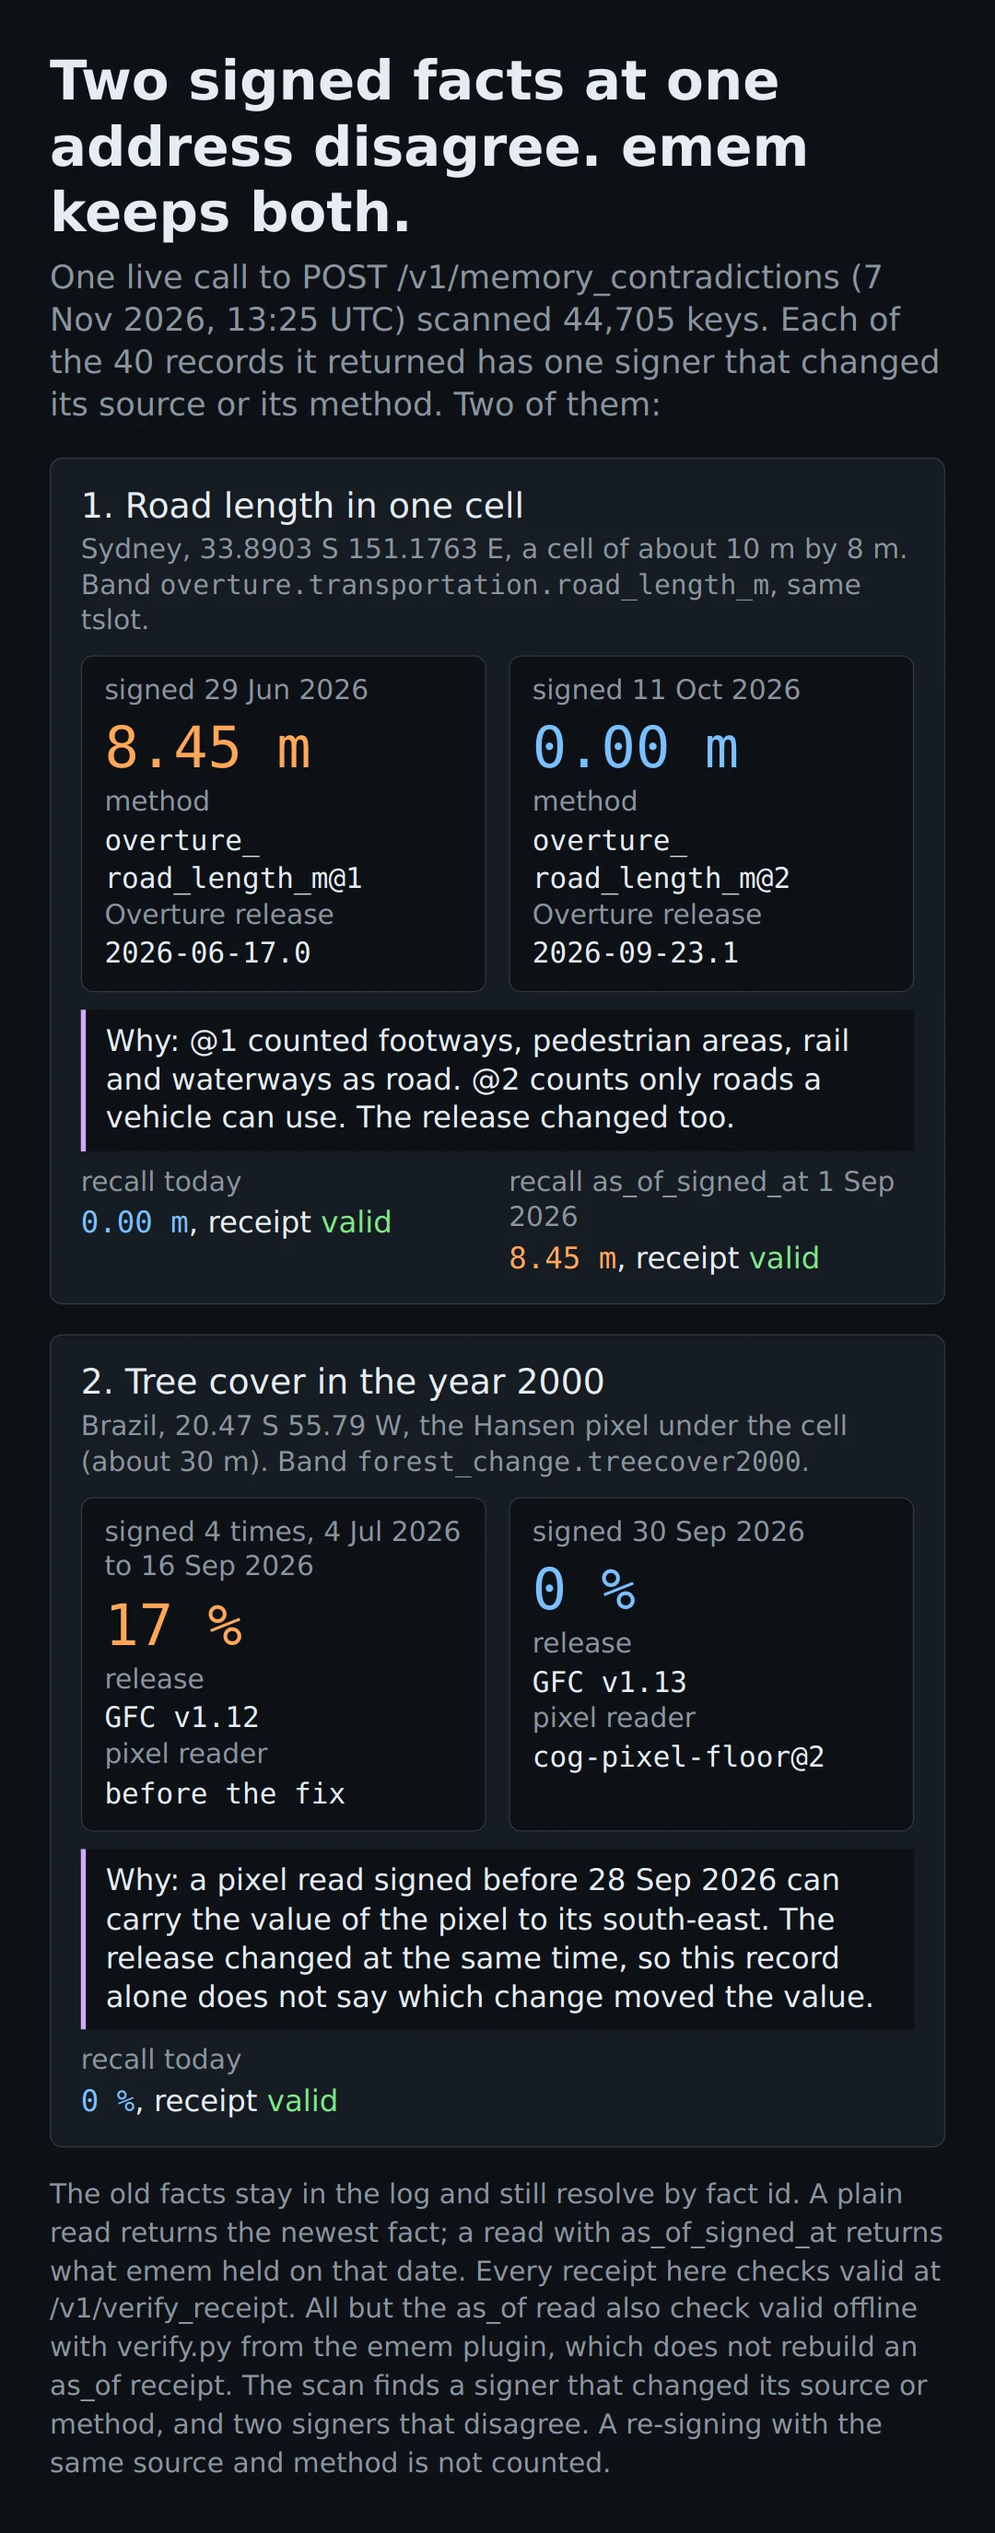
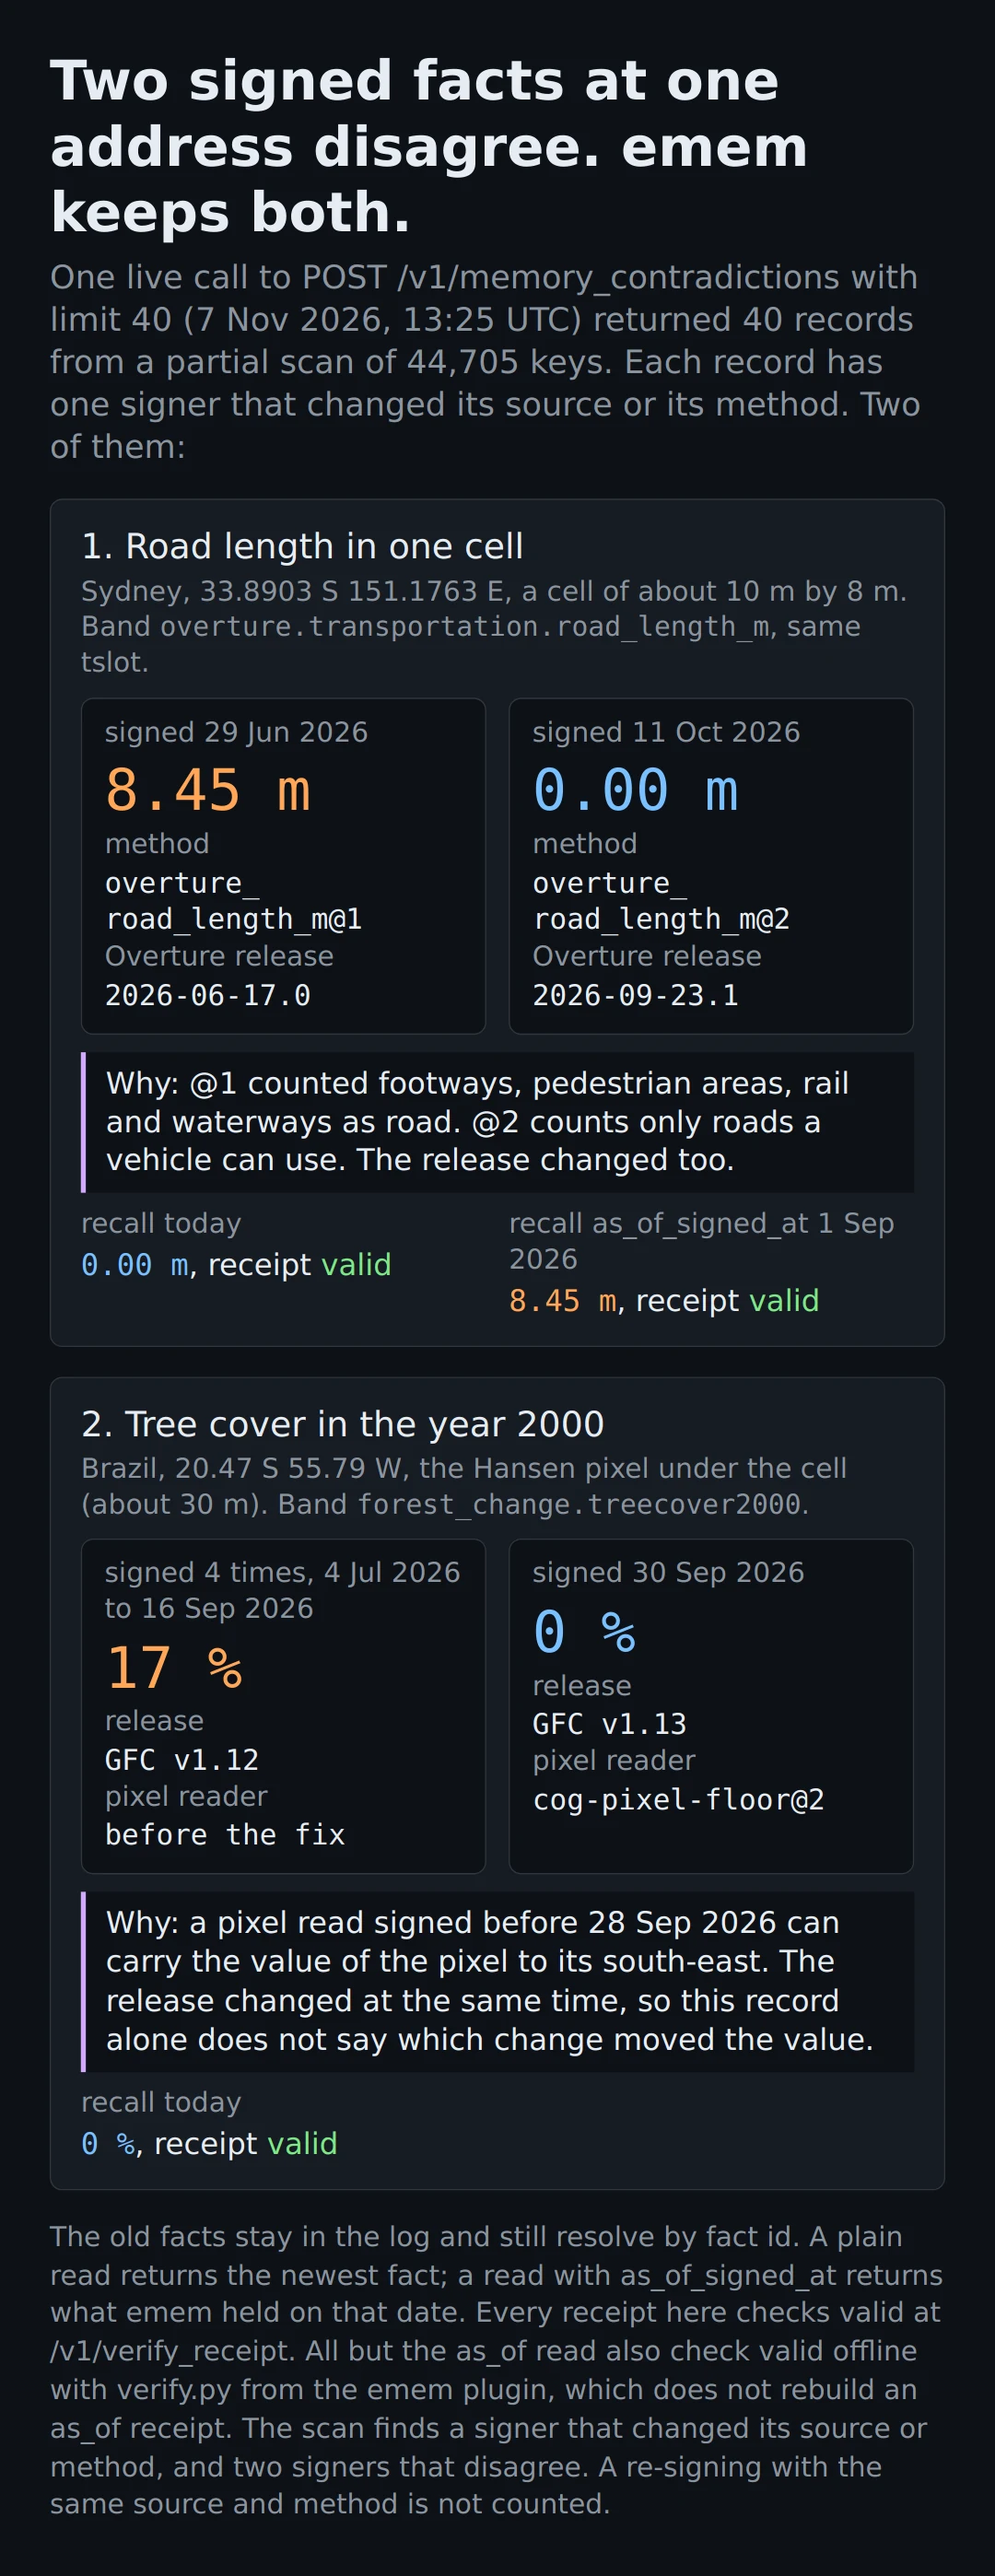
Say the contradictions scan was partial and name the fields box
Reviewer notes on PR #34. The memory_contradictions call sent limit
40, and its agent_hint says the hydration budget ran out (PARTIAL), so
intro.md, its alt text and the still now say "40 records from a
partial scan of 44,705 keys". The generator asserts PARTIAL.

agents.md said field_boundaries gave 139 outlines "in the box above",
but they came from the larger box in fetch_fields.py; it now names
that box. The trajectory row no longer waits on PR #30, which does not
change robots.md.

diff --git a/docs/media/stills/src/contradictions.py b/docs/media/stills/src/contradictions.py
@@ -33,6 +33,7 @@ def receipt_ok(r):
 scan = load("scan")
 assert receipt_ok(scan["receipt"]) and load("scan_verify")["valid"]
 assert scan["scopes"] == ["same_attester_provider_substitution"]
+assert "PARTIAL" in scan["agent_hint"] and scan["returned"] == 40
 
 k = {}
 for name in ("road", "tree"):
@@ -106,9 +107,9 @@ h1{{font-size:44px;line-height:1.2;margin:0 0 10px}}
 .foot{{color:#8b949e;font-size:22px;margin-top:24px;line-height:1.4}}
 </style><div class="wrap">
 <h1>Two signed facts at one address disagree. emem keeps both.</h1>
-<div class="q">One live call to POST /v1/memory_contradictions ({day(served)}, {served[11:16]} UTC)
-scanned {scan['corpus_scanned']:,} keys. Each of the {scan['returned']} records it returned has one signer
-that changed its source or its method. Two of them:</div>
+<div class="q">One live call to POST /v1/memory_contradictions with limit 40 ({day(served)}, {served[11:16]} UTC)
+returned {scan['returned']} records from a partial scan of {scan['corpus_scanned']:,} keys. Each record has one
+signer that changed its source or its method. Two of them:</div>
 
 <div class="panel">
 <div class="ph">1. Road length in one cell</div>

diff --git a/docs/intro.md b/docs/intro.md
@@ -71,12 +71,12 @@ node in 2027 and replay the same query.
 ## When two signed facts disagree
 
 emem does not delete an old fact when a newer fact replaces it. `memory_contradictions` finds addresses where the
-signed values differ. On 7 November 2026 it scanned 44,705 keys. All 40 records that it returned had one signer
-that changed its source or its method. At one Sydney cell, road length was 8.45 m under
+signed values differ. On 7 November 2026 a call with limit 40 returned 40 records from a partial scan of 44,705
+keys. Each record had one signer that changed its source or its method. At one Sydney cell, road length was 8.45 m under
 `overture_road_length_m@1` and 0.00 m under `@2`. Version 1 counted footways, rail and waterways as road. A plain
 read returned 0.00 m. A read with `as_of_signed_at` set to `2026-09-01T00:00:00Z` returned 8.45 m.
 
-![Two cases from one live POST /v1/memory_contradictions call on 7 November 2026, 13:25 UTC, which scanned 44,705 keys. Case 1: road length at a Sydney cell, about 10 m by 8 m. Signed 29 June 2026: 8.45 m, method overture_road_length_m@1, Overture release 2026-06-17.0. Signed 11 October 2026: 0.00 m, method overture_road_length_m@2, release 2026-09-23.1. Version 1 counted footways, pedestrian areas, rail and waterways as road; version 2 counts only roads a vehicle can use. Recall today returns 0.00 m; recall with as_of_signed_at 1 September 2026 returns 8.45 m. Case 2: tree cover in 2000 at 20.47 S 55.79 W in Brazil. Signed 4 times from 4 July to 16 September 2026: 17 percent, Hansen GFC v1.12, pixel reader before the fix. Signed 30 September 2026: 0 percent, GFC v1.13, reader cog-pixel-floor@2. Recall today returns 0 percent. Both the release and the reader changed, so the record does not say which change moved the value. Every receipt checks valid.](media/stills/contradictions.webp)
+![Two cases from one live POST /v1/memory_contradictions call with limit 40 on 7 November 2026, 13:25 UTC, which returned 40 records from a partial scan of 44,705 keys. Case 1: road length at a Sydney cell, about 10 m by 8 m. Signed 29 June 2026: 8.45 m, method overture_road_length_m@1, Overture release 2026-06-17.0. Signed 11 October 2026: 0.00 m, method overture_road_length_m@2, release 2026-09-23.1. Version 1 counted footways, pedestrian areas, rail and waterways as road; version 2 counts only roads a vehicle can use. Recall today returns 0.00 m; recall with as_of_signed_at 1 September 2026 returns 8.45 m. Case 2: tree cover in 2000 at 20.47 S 55.79 W in Brazil. Signed 4 times from 4 July to 16 September 2026: 17 percent, Hansen GFC v1.12, pixel reader before the fix. Signed 30 September 2026: 0 percent, GFC v1.13, reader cog-pixel-floor@2. Recall today returns 0 percent. Both the release and the reader changed, so the record does not say which change moved the value. Every receipt checks valid.](media/stills/contradictions.webp)
 
 ## What ships and what does not
 

diff --git a/docs/agents.md b/docs/agents.md
@@ -661,9 +661,10 @@ curl -s -X POST https://emem.dev/v1/field_series -H 'content-type: application/j
 
 <img src="media/stills/field-outlines.webp" alt="Still from live emem.dev calls on 7 November 2026. A Sentinel-2 true-colour image of a farm box near Ames, Iowa, on 22 June 2025, with 20 field outlines from field_boundaries. A chart gives the median NDVI of each field on 17 clear dates in 2025: 8 fields are at 0.8 or more on 22 June, and 12 are under 0.75. Cards show one polygon_cid that both answers carry, one field_series token for the 20 series, and verify_receipt valid." width="540">
 
-To read one series per field, first get the outlines. `field_boundaries`
-returned 139 outlines in the box above on 7 November 2026. The still uses
-the 20 outlines over 1 ha. They went to `field_series` as `fields`, with
+To read one series per field, first get the outlines. On 7 November 2026
+`field_boundaries` returned 139 outlines in a larger box around the box
+above (latitude 41.996 to 42.008, longitude -93.706 to -93.688). The still
+uses the 20 outlines over 1 ha. They went to `field_series` as `fields`, with
 the first 8 characters of each `polygon_cid` as the `id`. Each field's
 summary carries the same `polygon_cid`, so the two answers join without
 coordinates. The outlines come from Fields of The World (CC-BY-4.0). A

diff --git a/docs/media/visual-language.md b/docs/media/visual-language.md
@@ -109,7 +109,7 @@ pages, so the PRs can merge without a conflict. The description of PR #34 gives 
 | `stills/signed-thread.webp` | Who wrote each note in a signed thread? | `emem-in-depth.md` | `stills/src/signed_thread.py` |
 | `stills/field-outlines.webp` | Which fields in one farm box turned green first, and can I check it? | `agents.md` | `stills/src/field_outlines.py`, live reads from `fetch_fields.py` |
 | `stills/contradictions.webp` | Two signed facts at one address disagree: which one does a read return, and why? | `intro.md` | `stills/src/contradictions.py`, live reads from `fetch_contradictions.py` |
-| `stills/trajectory.webp` | What does a trajectory return, and what does an empty one mean? | `robots.md` after PR #30 merges | `stills/src/trajectory.py`, live reads from `fetch_trajectory.py` |
+| `stills/trajectory.webp` | What does a trajectory return, and what does an empty one mean? | `robots.md`: embed asked of the agents stream | `stills/src/trajectory.py`, live reads from `fetch_trajectory.py` |
 | `stills/one-place-many-names.webp` | Do two names for one place give the same cell? | `start-here.md` | `stills/src/one_place.py`, live reads from `fetch_one_place.py` |
 
 Each film also has a WebM copy and a `-poster.webp` file with the same name. The `fetch_*.py` scripts in
